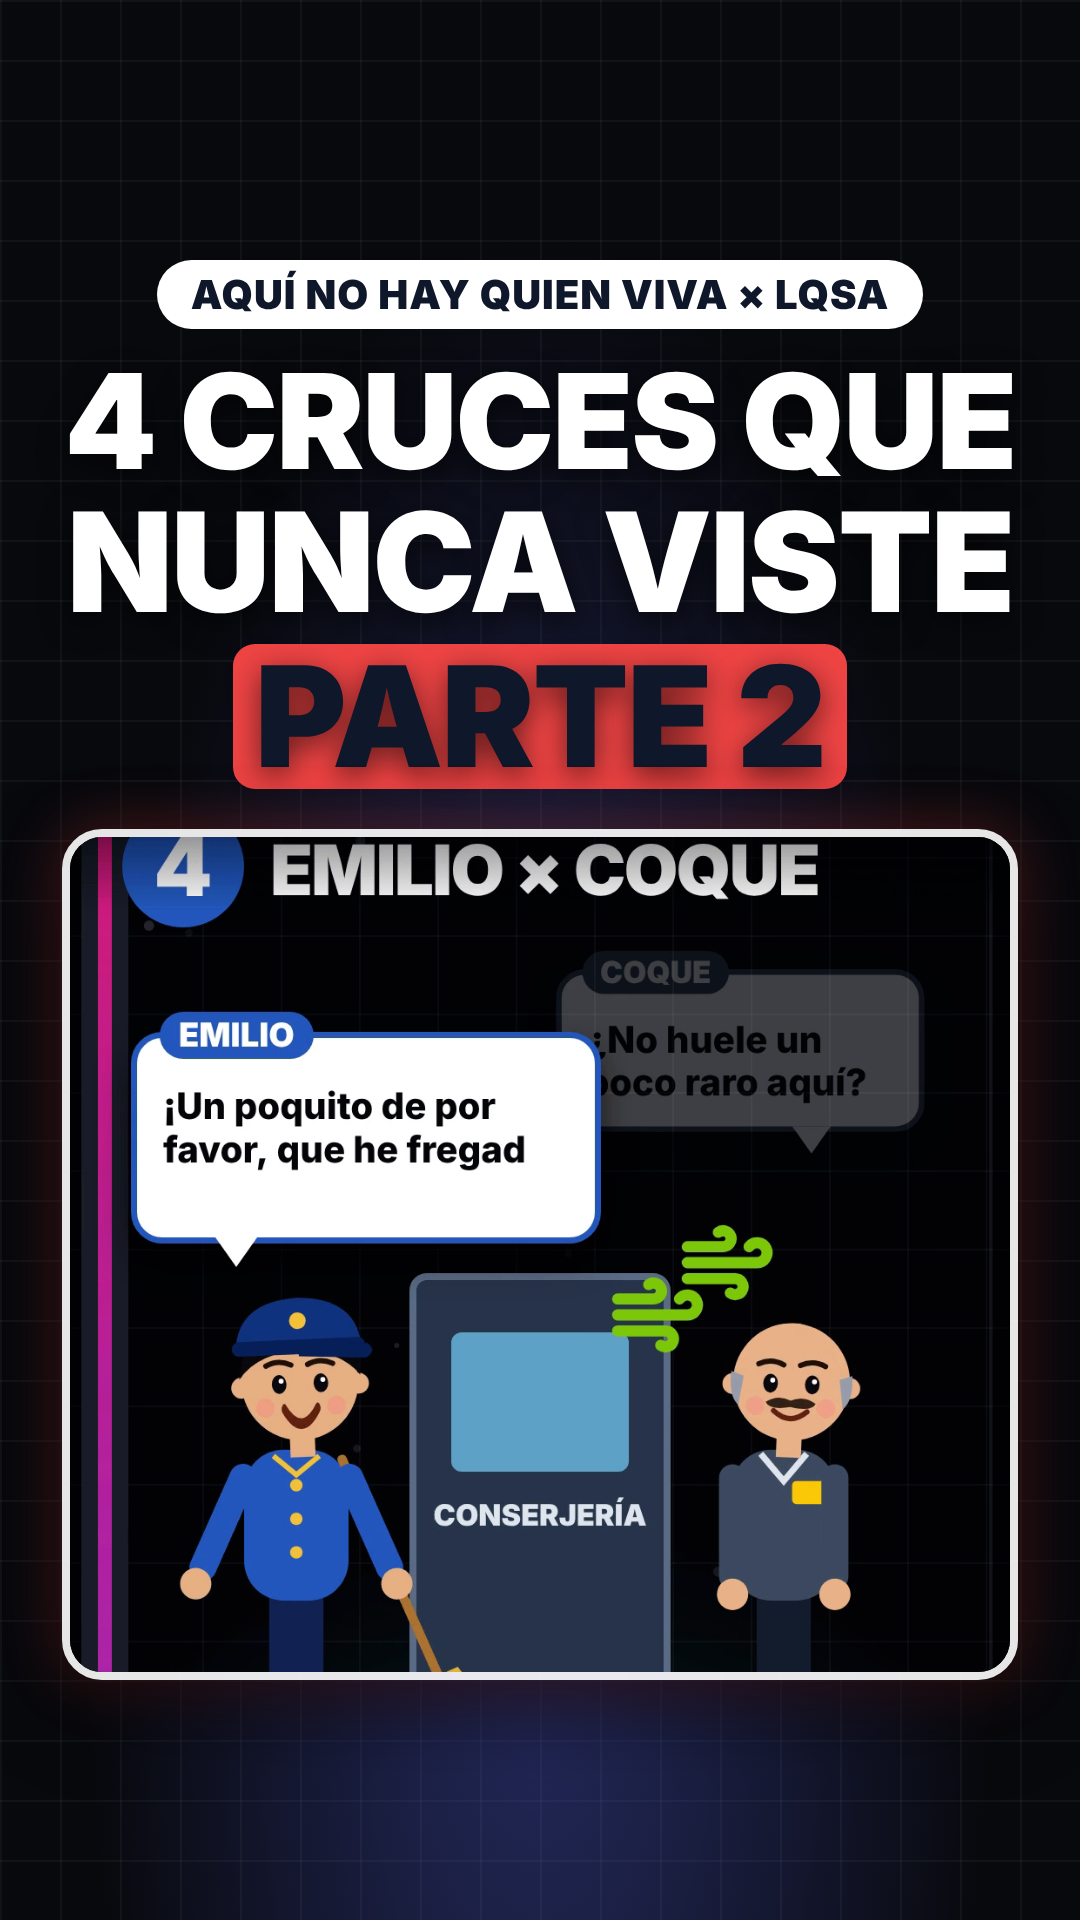
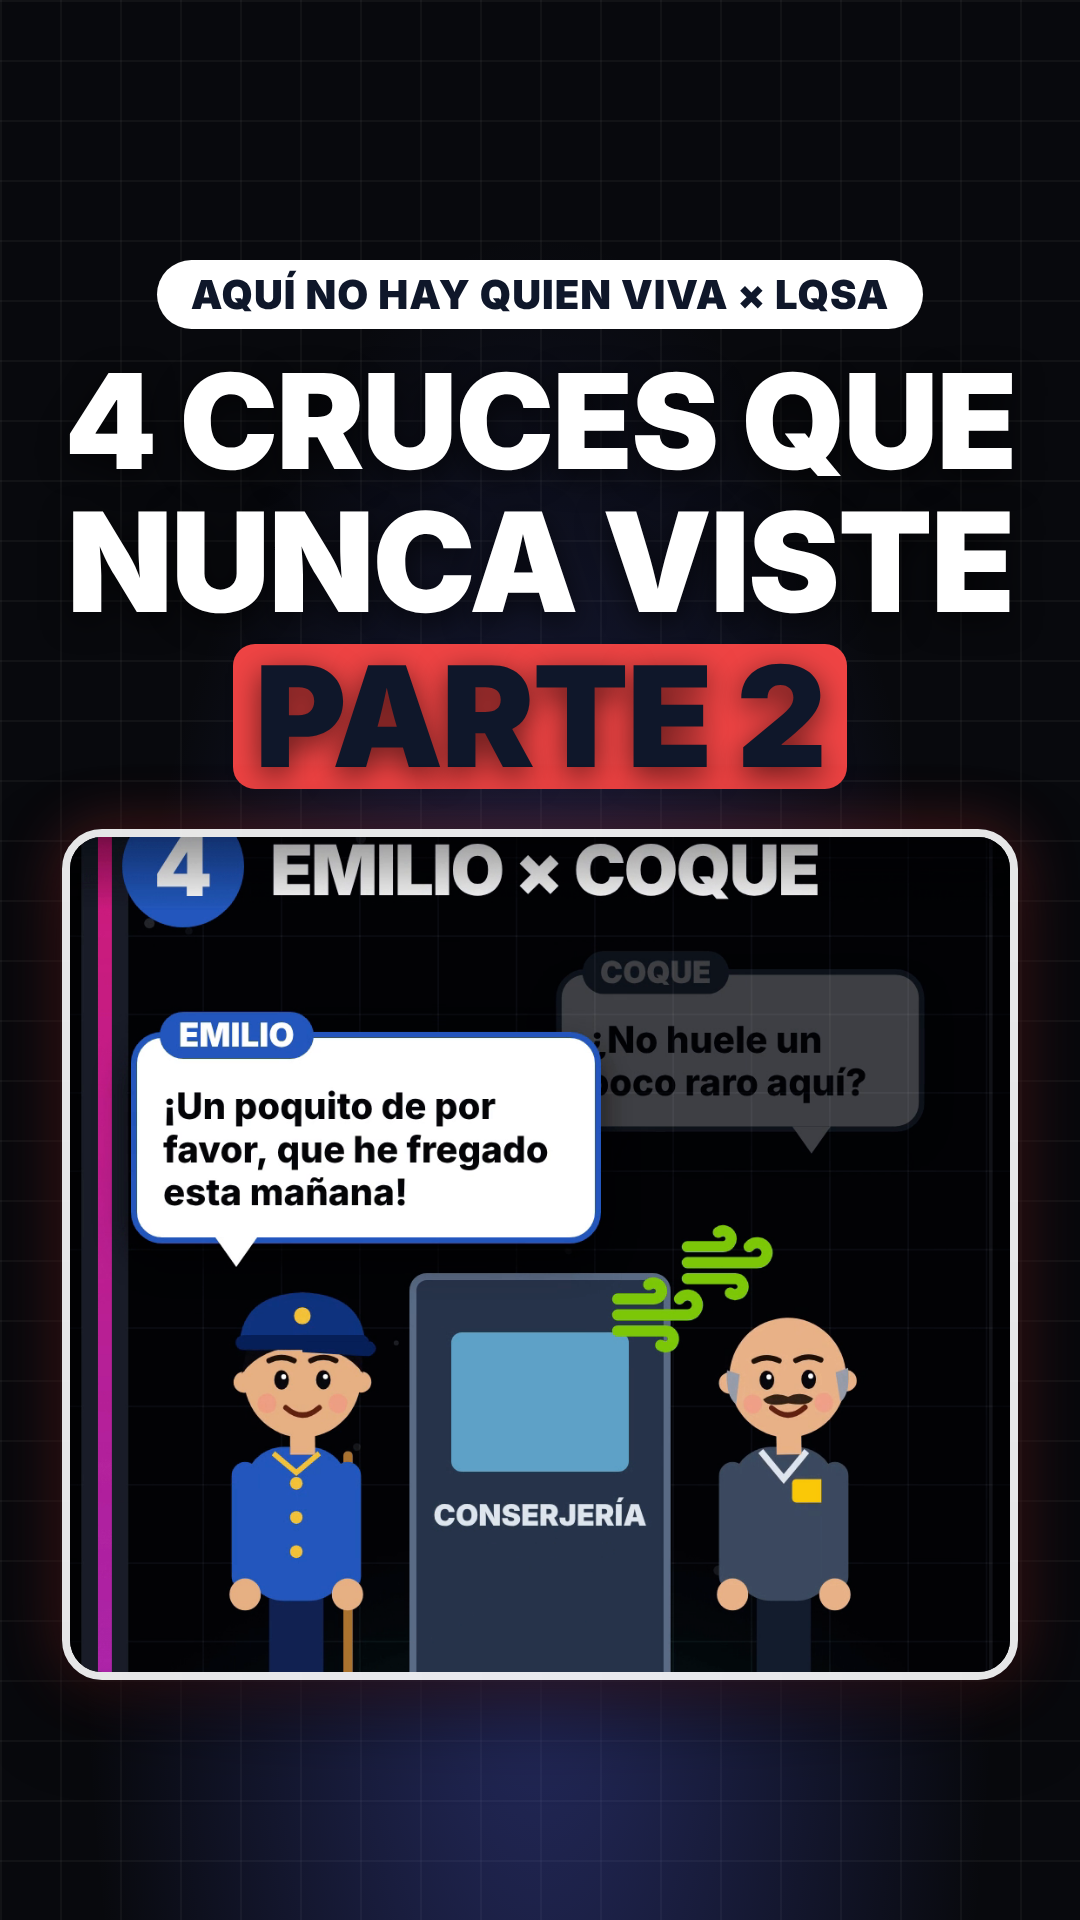
video-cruces2: portada con la frase de Emilio completa
Claude-Session: https://claude.ai/code/session_01R8Y4fksQJr7oz9QRv9r82t

diff --git a/portadas/hacer_portadas.py b/portadas/hacer_portadas.py
@@ -35,7 +35,7 @@ PORTADAS = {
     "video-coste":      (45.4, ["¿CUÁNTO CUESTA", "UN CAPÍTULO DE", "LQSA?"], "LQSA?", "#facc15", "LA QUE SE AVECINA"),
     "video-rodaje":     (9.5,  ["LO QUE NO VISTE", "DE LQSA:", "DETRÁS DE CÁMARAS"], "DETRÁS DE CÁMARAS", "#ef4444", "LA QUE SE AVECINA"),
     "video-maite":      (1.6,  ["¿Y SI ESTE BEBÉ", "NUNCA HUBIERA", "NACIDO?"], "NACIDO?", "#a855f7", "LA QUE SE AVECINA"),
-    "video-cruces2":    (52.0, ["4 CRUCES QUE", "NUNCA VISTE", "PARTE 2"], "PARTE 2", "#ef4444", "AQUÍ NO HAY QUIEN VIVA × LQSA"),
+    "video-cruces2":    (52.78, ["4 CRUCES QUE", "NUNCA VISTE", "PARTE 2"], "PARTE 2", "#ef4444", "AQUÍ NO HAY QUIEN VIVA × LQSA"),
 }
 
 HTML = """<!doctype html><html><head><meta charset="utf-8"><style>
